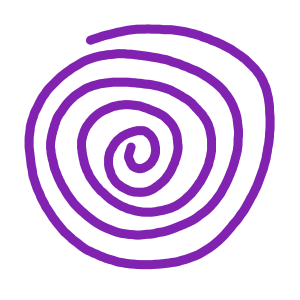
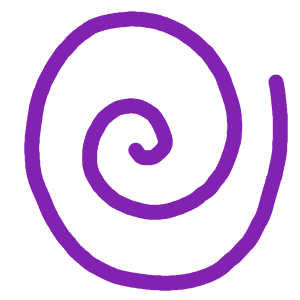
got swirls to swirl

diff --git a/main.cpp b/main.cpp
@@ -57,7 +57,10 @@ float   gScaleFactor    = SIZE,
         gRowFreq        = 2.5f,
         gPreviousTicks  = 0.0f,
         gBubbleSpeed    = 40.0f,
-        gBubbleGrowth   = 20.0f;
+        gBubbleGrowth   = 20.0f,
+        gOrbitRadius = SIZE/2.0f + 10.0f,
+        gBubToSwRatio = 2.0f,
+        gRotationSpeed = 300.0f;
 Vector2 gWitchPos = {ORIGIN.x + WITCH_OFFSET.x, ORIGIN.y + WITCH_OFFSET.y};
 Vector2 gStickPos = {ORIGIN.x + STICK_OFFSET.x, ORIGIN.y + STICK_OFFSET.y};
 Vector2 gCauldronPos = {ORIGIN.x + CAULDRON_OFFSET.x,
@@ -78,6 +81,8 @@ std::vector<Vector2> gBubbleScaleList = {
     BUBBLE_MAX_SIZE,
     BUBBLE_MAX_SIZE
 };
+
+std::vector<float> gSwirlAngleList(gBubblePosList.size(), 0.0f);
 
 Texture2D gWitchTexture;
 Texture2D gStickTexture;
@@ -125,11 +130,12 @@ void update(){
     };
 
     // bubbling
-    // gBubbleTime += 1.0f*deltaTime;
     for (size_t i = 0; i < gBubblePosList.size(); i++){
-        gBubblePosList[i].y -= gBubbleSpeed*deltaTime; // check for wrap later
+        gBubblePosList[i].y -= gBubbleSpeed*deltaTime; 
+       
         gBubblePosList[i].x = ORIGIN.x + BUBBLE_SWIRL_OFFSET.x + gBubbleExtraOffset[i]
-                                + MAX_BUBBLE_AMP*cos(gTotalTime);
+                                + (1+i/2.0f)*MAX_BUBBLE_AMP*cos((1+(i/10.0f))*gTotalTime);
+         // multiplied by (1 + i/c) to add some variance to the motion
         if (gBubblePosList[i].y < -1 * SIZE) {
             gBubblePosList[i] = {ORIGIN.x + BUBBLE_SWIRL_OFFSET.x 
                                 + gBubbleExtraOffset[i],
@@ -140,6 +146,11 @@ void update(){
             gBubbleScaleList[i].x += gBubbleGrowth*deltaTime;
             gBubbleScaleList[i].y += gBubbleGrowth*deltaTime;
         }
+    }
+
+    //swirling
+    for (size_t i = 0; i < gSwirlAngleList.size(); i++){
+        gSwirlAngleList[i] += gRotationSpeed*deltaTime;
     }
 
 
@@ -242,6 +253,38 @@ void render(){
             WHITE
         );
     }
+
+    // swirls
+    Rectangle swTextureArea = {
+        0.0f, 0.0f,
+        static_cast<float>(gSwirlTexture.width),
+        static_cast<float>(gSwirlTexture.height)
+    };
+
+    // each swirl orbits a bubble
+    for (size_t i = 0; i < gBubblePosList.size(); i++){
+        Rectangle swDestinationArea = {
+            gBubblePosList[i].x + gOrbitRadius, // at radius of circle
+            gBubblePosList[i].y + gOrbitRadius,
+            gBubbleScaleList[i].x / gBubToSwRatio,
+            gBubbleScaleList[i].y / gBubToSwRatio
+        };
+
+        Vector2 swirlOrigin = {
+            static_cast<float>(gBubbleScaleList[i].x / gBubToSwRatio)/2,
+            static_cast<float>(gBubbleScaleList[i].y / gBubToSwRatio)/2
+        };
+
+        DrawTexturePro(
+            gSwirlTexture,
+            swTextureArea,
+            swDestinationArea,
+            swirlOrigin,
+            gSwirlAngleList[i],
+            WHITE
+        );
+    }
+
 
     // cauldron
     Rectangle cTextureArea = {
